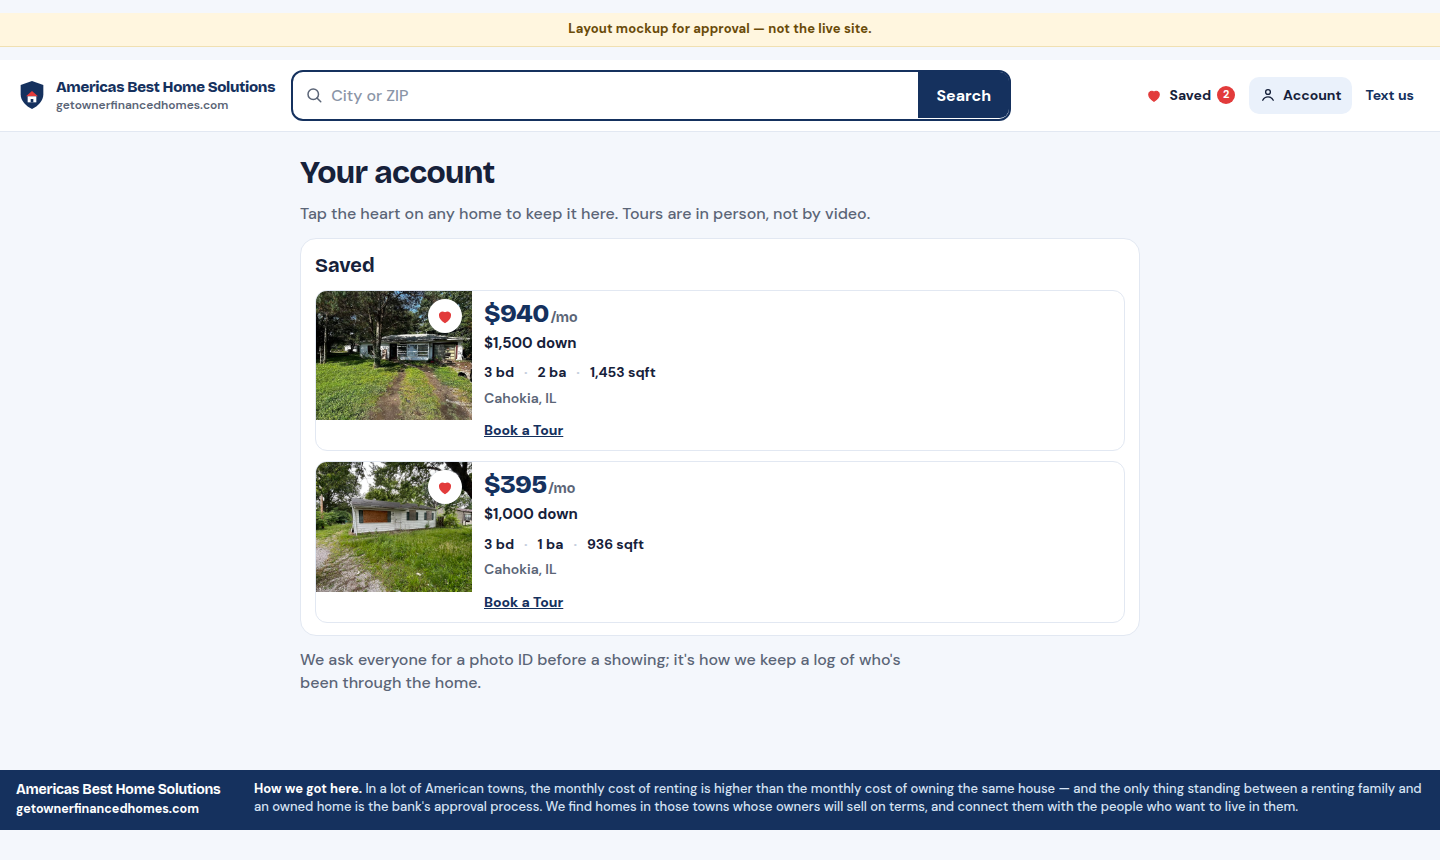
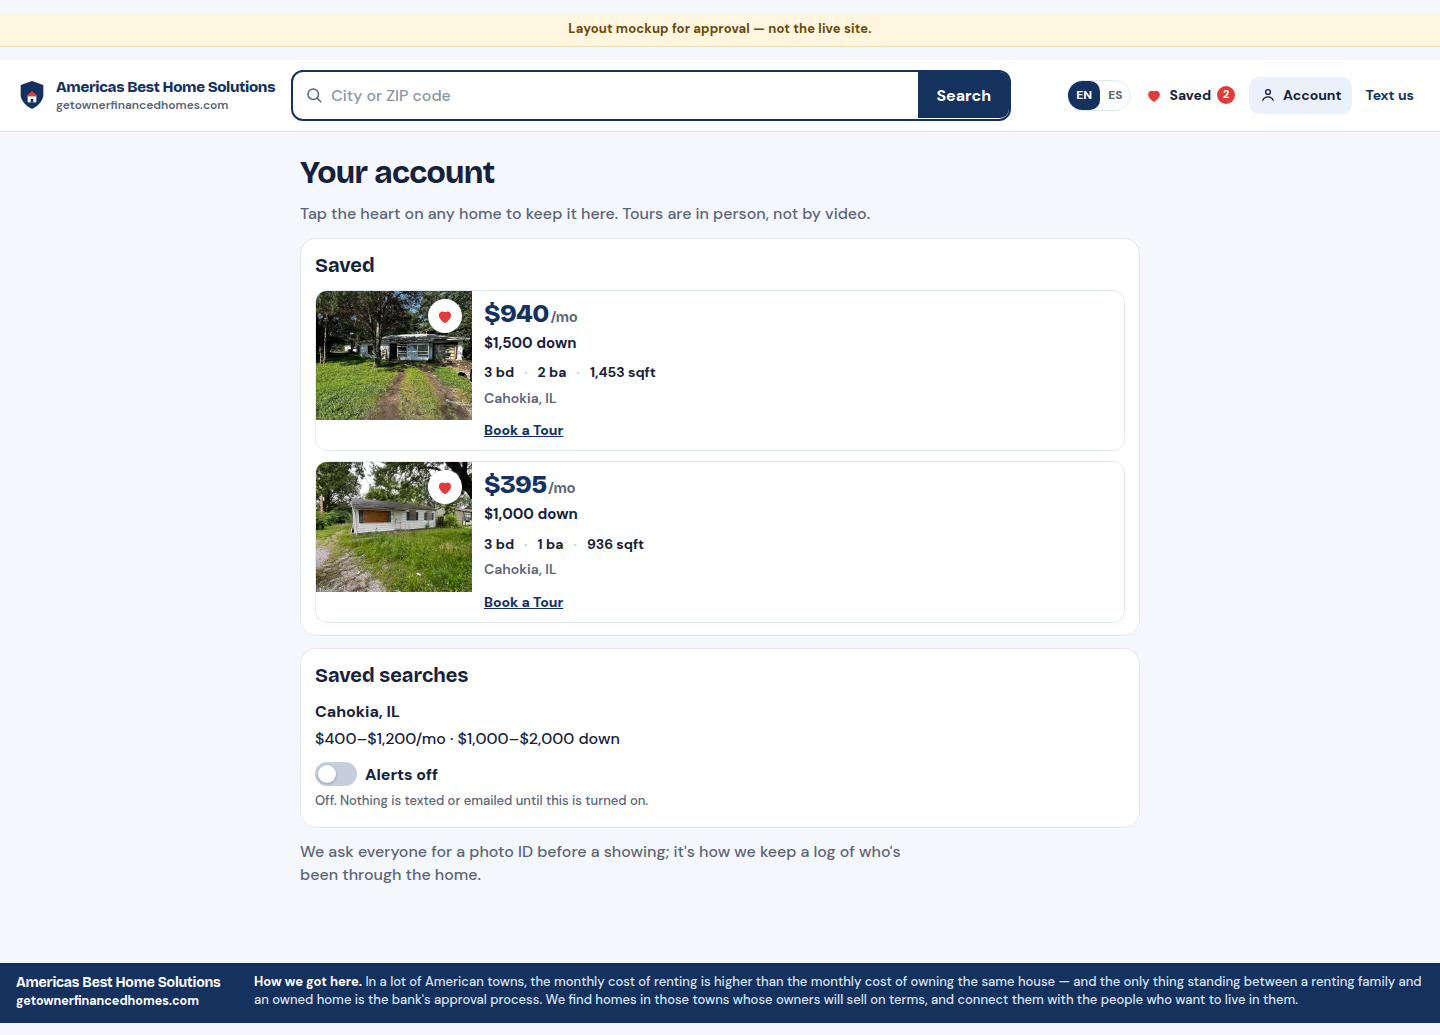
Add search ranges, Near me, alerts switch, and language link to mockups.
Monthly and down payment use min and max. Alerts stay off. The New badge is a sample because homes.js has no listing date.

diff --git a/mockups/search.html b/mockups/search.html
@@ -25,20 +25,57 @@
   <form class="search" action="search.html" role="search">
     <svg class="mag" width="18" height="18" viewBox="0 0 24 24" aria-hidden="true"><circle cx="11" cy="11" r="7" fill="none" stroke="currentColor" stroke-width="2"/><path d="M16 16l5 5" fill="none" stroke="currentColor" stroke-width="2" stroke-linecap="round"/></svg>
     <label class="sr" for="q">City or ZIP</label>
-    <input id="q" name="q" type="search" value="Cahokia, IL" placeholder="City or ZIP">
+    <input id="q" name="q" type="search" value="Cahokia, IL" placeholder="City or ZIP code" inputmode="search">
     <button type="submit">Search</button>
   </form>
   <nav class="util" aria-label="Account">
+    <div class="lang" role="group" aria-label="Language">
+      <a href="search.html" hreflang="en" aria-current="page">EN</a>
+      <a href="https://casasconfinanciamiento.com/" hreflang="es">ES</a>
+    </div>
     <a href="account.html#saved"><svg width="18" height="18" viewBox="0 0 24 24" aria-hidden="true"><path d="M12 20.5s-7-4.35-7-9.1A3.9 3.9 0 0 1 12 8.6a3.9 3.9 0 0 1 7 2.8c0 4.75-7 9.1-7 9.1z" fill="#e23b3b" stroke="#e23b3b" stroke-width="1.5"/></svg><span class="label">Saved</span><span class="count">2</span></a>
     <a href="account.html"><svg width="18" height="18" viewBox="0 0 24 24" aria-hidden="true"><circle cx="12" cy="8" r="3.2" fill="none" stroke="currentColor" stroke-width="1.8"/><path d="M5 19c1.4-3 3.8-4.5 7-4.5S17.6 16 19 19" fill="none" stroke="currentColor" stroke-width="1.8" stroke-linecap="round"/></svg><span class="label">Account</span></a>
     <a class="textus" href="sms:+15515509906">Text us</a>
   </nav>
 </header>
 <div class="filters" role="group" aria-label="Filters">
-  <button class="chip on" type="button">Under $1,200/mo <svg width="12" height="12" viewBox="0 0 24 24" aria-hidden="true"><path d="M6 9l6 6 6-6" fill="none" stroke="currentColor" stroke-width="2.4" stroke-linecap="round"/></svg></button>
-  <button class="chip" type="button">Price <svg width="12" height="12" viewBox="0 0 24 24" aria-hidden="true"><path d="M6 9l6 6 6-6" fill="none" stroke="currentColor" stroke-width="2.4" stroke-linecap="round"/></svg></button>
-  <button class="chip" type="button">Beds <svg width="12" height="12" viewBox="0 0 24 24" aria-hidden="true"><path d="M6 9l6 6 6-6" fill="none" stroke="currentColor" stroke-width="2.4" stroke-linecap="round"/></svg></button>
-  <button class="chip" type="button">Baths <svg width="12" height="12" viewBox="0 0 24 24" aria-hidden="true"><path d="M6 9l6 6 6-6" fill="none" stroke="currentColor" stroke-width="2.4" stroke-linecap="round"/></svg></button>
+  <label class="range">Monthly
+    <select id="payMin" aria-label="Minimum monthly payment">
+      <option value="">No min</option>
+      <option value="400" selected>$400</option>
+      <option value="600">$600</option>
+      <option value="800">$800</option>
+      <option value="1000">$1,000</option>
+    </select>
+    <span class="dash">–</span>
+    <select id="payMax" aria-label="Maximum monthly payment">
+      <option value="">No max</option>
+      <option value="800">$800</option>
+      <option value="1000">$1,000</option>
+      <option value="1200" selected>$1,200</option>
+      <option value="1500">$1,500</option>
+    </select>
+  </label>
+  <label class="range">Down
+    <select id="downMin" aria-label="Minimum down payment">
+      <option value="">No min</option>
+      <option value="1000" selected>$1,000</option>
+      <option value="1500">$1,500</option>
+      <option value="2000">$2,000</option>
+    </select>
+    <span class="dash">–</span>
+    <select id="downMax" aria-label="Maximum down payment">
+      <option value="">No max</option>
+      <option value="1500">$1,500</option>
+      <option value="2000" selected>$2,000</option>
+      <option value="3000">$3,000</option>
+      <option value="5000">$5,000</option>
+    </select>
+  </label>
+  <button class="chip" type="button">Beds</button>
+  <button class="chip" type="button">Baths</button>
+  <button class="near" id="nearBtn" type="button">Near me</button>
+  <p class="near-msg" id="nearMsg"></p>
 </div>
 <section class="whyband" aria-label="Why buy instead of rent">
   <h2>Why buy instead of rent</h2>
@@ -58,8 +95,9 @@
       </div>
       <span class="sort">Monthly payment</span>
     </div>
+    <p class="alert-row"><a href="account.html#alerts">Get alerts for this search</a></p>
 
-    <article class="card">
+    <article class="card" data-lat="38.5618" data-lng="-90.1668">
       <a class="card-link" href="listing.html">
         <div class="photo"><img src="../images/cahokia-il-1320-williams.jpg" alt="Home in Cahokia, Illinois"></div>
         <div class="meta">
@@ -72,9 +110,9 @@
       <button class="heart on" type="button" aria-pressed="true" aria-label="Saved"><svg viewBox="0 0 24 24" aria-hidden="true"><path d="M12 20.5s-7-4.35-7-9.1A3.9 3.9 0 0 1 12 8.6a3.9 3.9 0 0 1 7 2.8c0 4.75-7 9.1-7 9.1z"/></svg></button>
     </article>
 
-    <article class="card is-active">
+    <article class="card is-active" data-lat="38.584588" data-lng="-90.173912">
       <a class="card-link" href="listing.html">
-        <div class="photo"><img src="../images/cahokia-il-107-judith.jpg" alt="107 Judith Ln, Cahokia, Illinois"></div>
+        <div class="photo"><span class="badge-new">New</span><!-- sample only: homes.js has no listing date --><img src="../images/cahokia-il-107-judith.jpg" alt="107 Judith Ln, Cahokia, Illinois"></div>
         <div class="meta">
           <p class="pay">$940<span>/mo</span></p>
           <p class="down">$1,500 down</p>
@@ -85,7 +123,7 @@
       <button class="heart on" type="button" aria-pressed="true" aria-label="Saved"><svg viewBox="0 0 24 24" aria-hidden="true"><path d="M12 20.5s-7-4.35-7-9.1A3.9 3.9 0 0 1 12 8.6a3.9 3.9 0 0 1 7 2.8c0 4.75-7 9.1-7 9.1z"/></svg></button>
     </article>
 
-    <article class="card">
+    <article class="card" data-lat="38.5514" data-lng="-90.1342">
       <a class="card-link" href="listing.html">
         <div class="photo"><img src="../images/cahokia-il-11-delores.jpg" alt="Home in Cahokia, Illinois"></div>
         <div class="meta">
@@ -98,7 +136,7 @@
       <button class="heart" type="button" aria-pressed="false" aria-label="Save this home"><svg viewBox="0 0 24 24" aria-hidden="true"><path d="M12 20.5s-7-4.35-7-9.1A3.9 3.9 0 0 1 12 8.6a3.9 3.9 0 0 1 7 2.8c0 4.75-7 9.1-7 9.1z"/></svg></button>
     </article>
 
-    <article class="card">
+    <article class="card" data-lat="38.5553" data-lng="-90.1979">
       <a class="card-link" href="listing.html">
         <div class="photo"><img src="../images/cahokia-il-34-saint.jpg" alt="Home in Cahokia, Illinois"></div>
         <div class="meta">
@@ -111,7 +149,7 @@
       <button class="heart" type="button" aria-pressed="false" aria-label="Save this home"><svg viewBox="0 0 24 24" aria-hidden="true"><path d="M12 20.5s-7-4.35-7-9.1A3.9 3.9 0 0 1 12 8.6a3.9 3.9 0 0 1 7 2.8c0 4.75-7 9.1-7 9.1z"/></svg></button>
     </article>
 
-    <article class="card">
+    <article class="card" data-lat="38.7022" data-lng="-90.1655">
       <a class="card-link" href="listing.html">
         <div class="photo"><img src="../images/granitecity-il-1734-spruce.jpg" alt="Home in Granite City, Illinois"></div>
         <div class="meta">
@@ -124,7 +162,7 @@
       <button class="heart" type="button" aria-pressed="false" aria-label="Save this home"><svg viewBox="0 0 24 24" aria-hidden="true"><path d="M12 20.5s-7-4.35-7-9.1A3.9 3.9 0 0 1 12 8.6a3.9 3.9 0 0 1 7 2.8c0 4.75-7 9.1-7 9.1z"/></svg></button>
     </article>
 
-    <article class="card">
+    <article class="card" data-lat="38.5952" data-lng="-90.1318">
       <a class="card-link" href="listing.html">
         <div class="photo"><img src="../images/eaststlouis-il-3511-converse.jpg" alt="Home in East St. Louis, Illinois"></div>
         <div class="meta">
@@ -137,7 +175,7 @@
       <button class="heart" type="button" aria-pressed="false" aria-label="Save this home"><svg viewBox="0 0 24 24" aria-hidden="true"><path d="M12 20.5s-7-4.35-7-9.1A3.9 3.9 0 0 1 12 8.6a3.9 3.9 0 0 1 7 2.8c0 4.75-7 9.1-7 9.1z"/></svg></button>
     </article>
 
-    <article class="card">
+    <article class="card" data-lat="38.5174" data-lng="-89.9965">
       <a class="card-link" href="listing.html">
         <div class="photo"><img src="../images/belleville-il-233-11th.jpg" alt="Home in Belleville, Illinois"></div>
         <div class="meta">

diff --git a/mockups/mockup.css b/mockups/mockup.css
@@ -141,12 +141,12 @@ a { color: var(--navy); }
 
 .filters {
   display: flex;
+  flex-wrap: wrap;
   gap: 8px;
   align-items: center;
   padding: 10px 16px;
   background: #fff;
   border-bottom: 1px solid var(--line);
-  overflow-x: auto;
 }
 .chip {
   flex: none;
@@ -164,6 +164,87 @@ a { color: var(--navy); }
 }
 .chip.on { background: var(--blue); border-color: var(--navy); color: var(--navy); }
 .chip svg { flex: none; }
+.range {
+  flex: none;
+  display: inline-flex;
+  align-items: center;
+  gap: 4px;
+  border: 1.5px solid #cfd6e4;
+  background: #fff;
+  border-radius: 8px;
+  padding: 4px 8px;
+  font-size: 13px;
+  font-weight: 800;
+  color: var(--ink);
+}
+.range span.lab { color: var(--soft); font-size: 11px; letter-spacing: .04em; text-transform: uppercase; margin-right: 2px; }
+.range select {
+  border: 0;
+  background: transparent;
+  font: inherit;
+  font-weight: 800;
+  padding: 4px 0;
+  max-width: 88px;
+}
+.range .dash { color: var(--soft); font-weight: 700; }
+.near {
+  flex: none;
+  border: 1.5px solid var(--navy);
+  background: #fff;
+  color: var(--navy);
+  border-radius: 8px;
+  padding: 8px 12px;
+  font-weight: 800;
+  font-size: 14px;
+  cursor: pointer;
+}
+.near.on { background: var(--navy); color: #fff; }
+.near-msg { flex: none; margin: 0; font-size: 13px; color: var(--soft); font-weight: 700; }
+.lang { display: inline-flex; border: 1.5px solid var(--line); border-radius: 999px; overflow: hidden; }
+.lang a { text-decoration: none; color: var(--soft); font-size: 12px; font-weight: 800; padding: 6px 8px; }
+.lang a[aria-current="page"] { background: var(--navy); color: #fff; }
+.badge-new {
+  position: absolute;
+  top: 10px;
+  left: 10px;
+  z-index: 2;
+  background: var(--navy);
+  color: #fff;
+  font-size: 11px;
+  font-weight: 800;
+  letter-spacing: .06em;
+  text-transform: uppercase;
+  border-radius: 999px;
+  padding: 4px 8px;
+}
+.alert-row { margin: 0 12px 10px; }
+.alert-row a { font-weight: 800; font-size: 14px; }
+.saved-search p { margin: 0 0 4px; }
+.switch { display: inline-flex; align-items: center; gap: 8px; font-weight: 800; margin-top: 8px; cursor: pointer; }
+.switch input { position: absolute; opacity: 0; width: 1px; height: 1px; }
+.knob {
+  width: 42px;
+  height: 24px;
+  border-radius: 99px;
+  background: #c5cedd;
+  position: relative;
+  flex: none;
+}
+.knob::after {
+  content: "";
+  position: absolute;
+  width: 18px;
+  height: 18px;
+  border-radius: 50%;
+  background: #fff;
+  top: 3px;
+  left: 3px;
+  box-shadow: 0 1px 3px rgba(15, 36, 68, .3);
+}
+.switch input:focus-visible + .knob { outline: 2px solid var(--navy); outline-offset: 2px; }
+.switch input:checked + .knob { background: var(--navy); }
+.switch input:checked + .knob::after { left: 21px; }
+.alert-off { margin: 8px 0 0; color: var(--soft); font-size: 13px; }
 
 /* Search split. The map stays a fixed height; company, benefits, and FAQ sit below it. */
 body.page-search { min-height: 100vh; background: var(--paper); }

diff --git a/mockups/mockup.js b/mockups/mockup.js
@@ -1,4 +1,7 @@
-/* Tiny behavior for the layout mockup. Nothing here talks to the live site. */
+/* Tiny behavior for the layout mockup. Nothing here talks to the live site.
+   ALERTS_ENABLED is OFF. This page does not email or text anyone.
+   When Joe turns alerts on, the messaging bot sends — not this file. */
+const ALERTS_ENABLED = false;
 (function () {
   document.querySelectorAll(".heart").forEach((btn) => {
     btn.addEventListener("click", (e) => {
@@ -42,11 +45,55 @@
     paint();
   }
 
-  document.querySelectorAll("form[data-mock]").forEach((form) => {
+  document.querySelectorAll("form.search").forEach((form) => {
     form.addEventListener("submit", (e) => {
       e.preventDefault();
-      const note = form.querySelector(".form-note");
-      if (note) note.textContent = "Mockup only — nothing was sent.";
+      const q = (form.querySelector("input") || {}).value || "";
+      const h1 = document.querySelector(".list-head h1");
+      if (h1 && /^\d{5}$/.test(q.trim())) h1.textContent = "ZIP " + q.trim();
     });
   });
+
+  const nearBtn = document.getElementById("nearBtn");
+  if (nearBtn) {
+    nearBtn.addEventListener("click", () => {
+      const msg = document.getElementById("nearMsg");
+      if (!navigator.geolocation) {
+        if (msg) msg.textContent = "Location isn't available. Search a ZIP.";
+        return;
+      }
+      nearBtn.textContent = "Finding you…";
+      navigator.geolocation.getCurrentPosition((pos) => {
+        const { latitude, longitude } = pos.coords;
+        const miles = (lat, lng) => {
+          const r = Math.PI / 180, R = 3958.8;
+          const x = Math.sin((lat - latitude) * r / 2) ** 2 + Math.cos(latitude * r) * Math.cos(lat * r) * Math.sin((lng - longitude) * r / 2) ** 2;
+          return 2 * R * Math.asin(Math.sqrt(x));
+        };
+        const list = document.querySelector(".list");
+        const cards = [...document.querySelectorAll(".list .card")];
+        cards.sort((a, b) => miles(+a.dataset.lat, +a.dataset.lng) - miles(+b.dataset.lat, +b.dataset.lng));
+        cards.forEach((card) => list.appendChild(card));
+        const sort = document.querySelector(".sort");
+        if (sort) sort.textContent = "Nearest";
+        nearBtn.textContent = "Near you";
+        nearBtn.classList.add("on");
+        if (msg) msg.textContent = "";
+      }, () => {
+        nearBtn.textContent = "Near me";
+        if (msg) msg.textContent = "We couldn't use your location. Search a ZIP.";
+      });
+    });
+  }
+
+  const alertOn = document.getElementById("alertOn");
+  if (alertOn) {
+    alertOn.checked = false;
+    alertOn.addEventListener("change", () => {
+      if (ALERTS_ENABLED) return;
+      alertOn.checked = false;
+      const hold = document.getElementById("alertHold");
+      if (hold) hold.hidden = false;
+    });
+  }
 })();

diff --git a/mockups/listing.html b/mockups/listing.html
@@ -25,10 +25,14 @@
   <form class="search" action="search.html" role="search">
     <svg class="mag" width="18" height="18" viewBox="0 0 24 24" aria-hidden="true"><circle cx="11" cy="11" r="7" fill="none" stroke="currentColor" stroke-width="2"/><path d="M16 16l5 5" fill="none" stroke="currentColor" stroke-width="2" stroke-linecap="round"/></svg>
     <label class="sr" for="q">City or ZIP</label>
-    <input id="q" name="q" type="search" value="Cahokia, IL" placeholder="City or ZIP">
+    <input id="q" name="q" type="search" value="Cahokia, IL" placeholder="City or ZIP code" inputmode="search">
     <button type="submit">Search</button>
   </form>
   <nav class="util" aria-label="Account">
+    <div class="lang" role="group" aria-label="Language">
+      <a href="listing.html" hreflang="en" aria-current="page">EN</a>
+      <a href="https://casasconfinanciamiento.com/cahokia-il-107-judith.html" hreflang="es">ES</a>
+    </div>
     <a href="account.html#saved"><svg width="18" height="18" viewBox="0 0 24 24" aria-hidden="true"><path d="M12 20.5s-7-4.35-7-9.1A3.9 3.9 0 0 1 12 8.6a3.9 3.9 0 0 1 7 2.8c0 4.75-7 9.1-7 9.1z" fill="#e23b3b" stroke="#e23b3b" stroke-width="1.5"/></svg><span class="label">Saved</span><span class="count">2</span></a>
     <a href="account.html"><svg width="18" height="18" viewBox="0 0 24 24" aria-hidden="true"><circle cx="12" cy="8" r="3.2" fill="none" stroke="currentColor" stroke-width="1.8"/><path d="M5 19c1.4-3 3.8-4.5 7-4.5S17.6 16 19 19" fill="none" stroke="currentColor" stroke-width="1.8" stroke-linecap="round"/></svg><span class="label">Account</span></a>
     <a class="textus" href="sms:+15515509906">Text us</a>
@@ -39,10 +43,11 @@
   <a class="back" href="search.html">‹ Homes near Cahokia</a>
   <div class="layout">
     <div class="gallery" aria-label="Photos">
-      <div class="main">
-        <img src="../images/cahokia-il-107-judith.jpg" alt="Front of 107 Judith Ln, Cahokia">
-        <span class="photo-count">24 photos</span>
-      </div>
+<div class="main">
+          <img src="../images/cahokia-il-107-judith.jpg" alt="Front of 107 Judith Ln, Cahokia">
+          <span class="badge-new">New</span>
+          <span class="photo-count">24 photos</span>
+        </div>
       <div class="side"><img src="../images/cahokia-il-107-judith-12.jpg" alt="Room inside 107 Judith Ln"></div>
       <div class="side"><img src="../images/cahokia-il-107-judith-1.jpg" alt="Bedroom inside 107 Judith Ln"></div>
     </div>

diff --git a/mockups/account.html b/mockups/account.html
@@ -25,10 +25,14 @@
   <form class="search" action="search.html" role="search">
     <svg class="mag" width="18" height="18" viewBox="0 0 24 24" aria-hidden="true"><circle cx="11" cy="11" r="7" fill="none" stroke="currentColor" stroke-width="2"/><path d="M16 16l5 5" fill="none" stroke="currentColor" stroke-width="2" stroke-linecap="round"/></svg>
     <label class="sr" for="q">City or ZIP</label>
-    <input id="q" name="q" type="search" placeholder="City or ZIP">
+    <input id="q" name="q" type="search" placeholder="City or ZIP code" inputmode="search">
     <button type="submit">Search</button>
   </form>
   <nav class="util" aria-label="Account">
+    <div class="lang" role="group" aria-label="Language">
+      <a href="account.html" hreflang="en" aria-current="page">EN</a>
+      <a href="https://casasconfinanciamiento.com/" hreflang="es">ES</a>
+    </div>
     <a href="#saved"><svg width="18" height="18" viewBox="0 0 24 24" aria-hidden="true"><path d="M12 20.5s-7-4.35-7-9.1A3.9 3.9 0 0 1 12 8.6a3.9 3.9 0 0 1 7 2.8c0 4.75-7 9.1-7 9.1z" fill="#e23b3b" stroke="#e23b3b" stroke-width="1.5"/></svg><span class="label">Saved</span><span class="count">2</span></a>
     <a href="account.html" aria-current="page"><svg width="18" height="18" viewBox="0 0 24 24" aria-hidden="true"><circle cx="12" cy="8" r="3.2" fill="none" stroke="currentColor" stroke-width="1.8"/><path d="M5 19c1.4-3 3.8-4.5 7-4.5S17.6 16 19 19" fill="none" stroke="currentColor" stroke-width="1.8" stroke-linecap="round"/></svg><span class="label">Account</span></a>
     <a class="textus" href="sms:+15515509906">Text us</a>
@@ -69,6 +73,19 @@
     </article>
   </section>
 
+  <section class="panel" id="alerts">
+    <h2>Saved searches</h2>
+    <div class="saved-search">
+      <p><strong>Cahokia, IL</strong></p>
+      <p>$400–$1,200/mo · $1,000–$2,000 down</p>
+      <label class="switch">
+        <input type="checkbox" id="alertOn" aria-describedby="alertHold">
+        <span class="knob" aria-hidden="true"></span>
+        <span id="alertState">Alerts off</span>
+      </label>
+      <p class="alert-off" id="alertHold">Off. Nothing is texted or emailed until this is turned on.</p>
+    </div>
+  </section>
   <p class="lede" style="margin-top:0">We ask everyone for a photo ID before a showing; it's how we keep a log of who's been through the home.</p>
 </main>
 <footer class="foot">

diff --git a/mockups/README.md b/mockups/README.md
@@ -30,10 +30,13 @@ Buyer-facing sentences are copied from the live pages. Nothing below is a new mi
 
 ## What this layout is
 
-- **Search:** city or ZIP, filters (monthly, price, beds, baths), list beside a map. Mobile is the list, with a Map / List toggle. Under the results: who we are, why buy instead of rent, and the FAQ (questions collapse).
+- **Search:** city or ZIP code, monthly and down-payment ranges (min and max), beds, baths, and Near me (browser location, then nearest first). Mobile is the list, with a Map / List toggle. “Get alerts for this search” opens the saved search on the account page. Under the results: who we are, why buy instead of rent, and the FAQ.
+- **New badge:** sample only on 107 Judith Ln. `homes.js` has no per-home listing date. Keys on a home are address, beds, baths, sqft, monthlyPayment, moveIn, and the rest listed in that file — nothing like `listedOn`. The comment at the top of `homes.js` (“master published 2026-10-27”) is the whole refresh, not a date for one home. The generator would need a new date field before this badge can be real. Until then the badge is layout only.
+- **Alerts:** `ALERTS_ENABLED` in `mockup.js` is `false`. The account switch stays off and this page does not email or text. When Joe turns that flag on, the messaging bot sends — not the website.
 - **Card:** photo, monthly payment, down payment, beds / baths / sqft, city, heart.
 - **Listing:** gallery first, monthly payment and down payment, Save and Book a Tour, a short version of the benefits, facts, three steps from How it works, map, and a short FAQ.
-- **Account:** saved homes and Book a Tour for each one.
+- **Account:** saved homes, Book a Tour for each one, and saved searches with alerts off.
+- **EN / ES:** ES links to the matching page on casasconfinanciamiento.com. The account page has no Spanish twin yet, so its ES link goes to the Spanish home page.
 
 Pins show the monthly payment, same as today.
 
